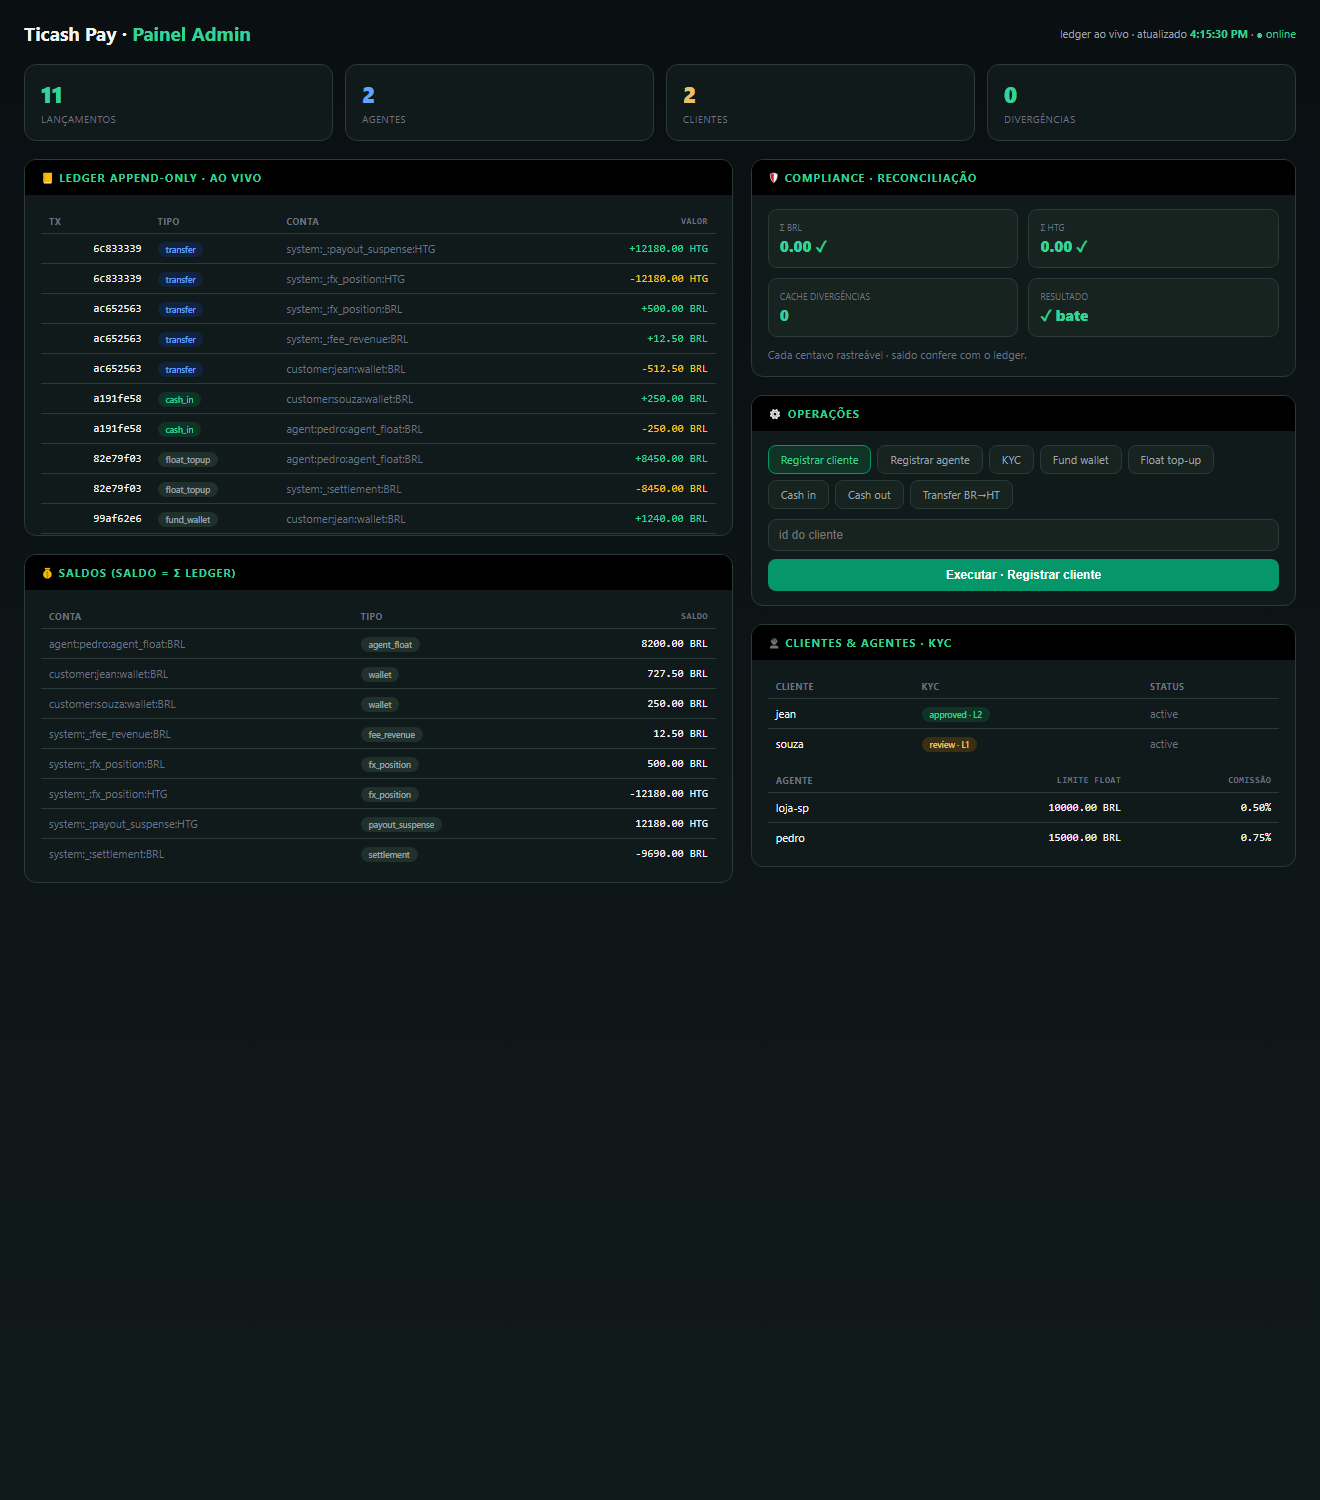
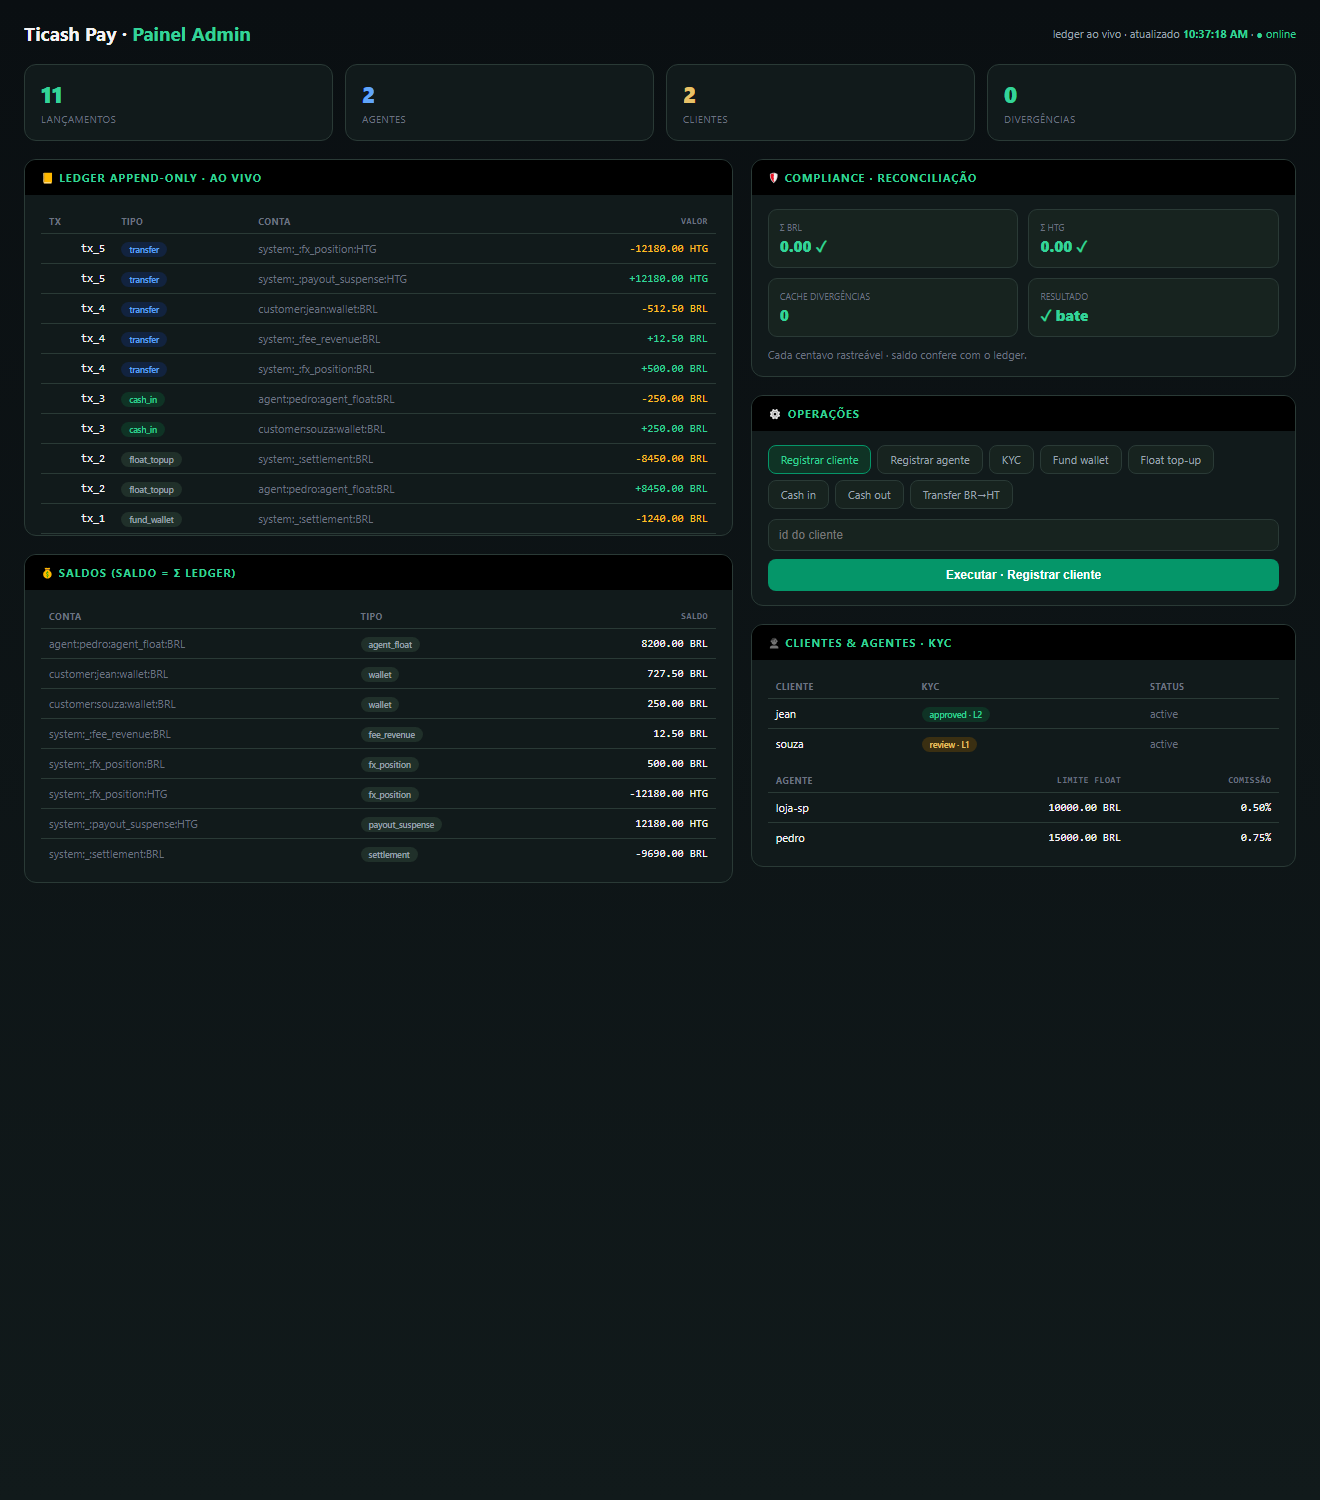
feat: multi-currency seed (USD, DOP, MXN, USDT) for demo panel

diff --git a/src/demo/seed.ts b/src/demo/seed.ts
@@ -40,4 +40,11 @@ export async function seedDemo(deps: { ledger: LedgerService; registry: Registry
       idempotencyKey: 'seed-xfer',
     }),
   );
+
+  // Multi-currency examples so the panel shows wallets in every supported currency.
+  // (The ledger is multi-currency by design — these are example balances.)
+  await safe(ledger.fundWallet({ customerId: 'jean', currency: 'USD', amountMinor: toMinor('100.00', 'USD'), idempotencyKey: 'seed-usd' }));
+  await safe(ledger.fundWallet({ customerId: 'jean', currency: 'DOP', amountMinor: toMinor('500.00', 'DOP'), idempotencyKey: 'seed-dop' }));
+  await safe(ledger.fundWallet({ customerId: 'jean', currency: 'MXN', amountMinor: toMinor('300.00', 'MXN'), idempotencyKey: 'seed-mxn' }));
+  await safe(ledger.fundWallet({ customerId: 'jean', currency: 'USDT', amountMinor: toMinor('50.000000', 'USDT'), idempotencyKey: 'seed-usdt' }));
 }

diff --git a/public/admin.html b/public/admin.html
@@ -123,7 +123,7 @@
 <script>
 const API = ''; // same origin
 const $ = (id) => document.getElementById(id);
-const SCALE = { BRL:2, HTG:2, USD:2, DOP:2, USDT:6 };
+const SCALE = { BRL:2, HTG:2, USD:2, DOP:2, MXN:2, USDT:6 };
 function fmt(minor, ccy) {
   const s = SCALE[ccy] ?? 2; const neg = BigInt(minor) < 0n;
   const abs = (neg ? -BigInt(minor) : BigInt(minor)).toString().padStart(s+1,'0');

diff --git a/src/money/currency.ts b/src/money/currency.ts
@@ -10,6 +10,7 @@ export const CURRENCIES = {
   HTG: { scale: 2, symbol: 'G', kind: 'fiat' }, // Haitian gourde
   USD: { scale: 2, symbol: '$', kind: 'fiat' },
   DOP: { scale: 2, symbol: 'RD$', kind: 'fiat' }, // Dominican peso
+  MXN: { scale: 2, symbol: 'MX$', kind: 'fiat' }, // Mexican peso
   USDT: { scale: 6, symbol: '₮', kind: 'asset' }, // Tether (internal asset code)
 } as const;
 